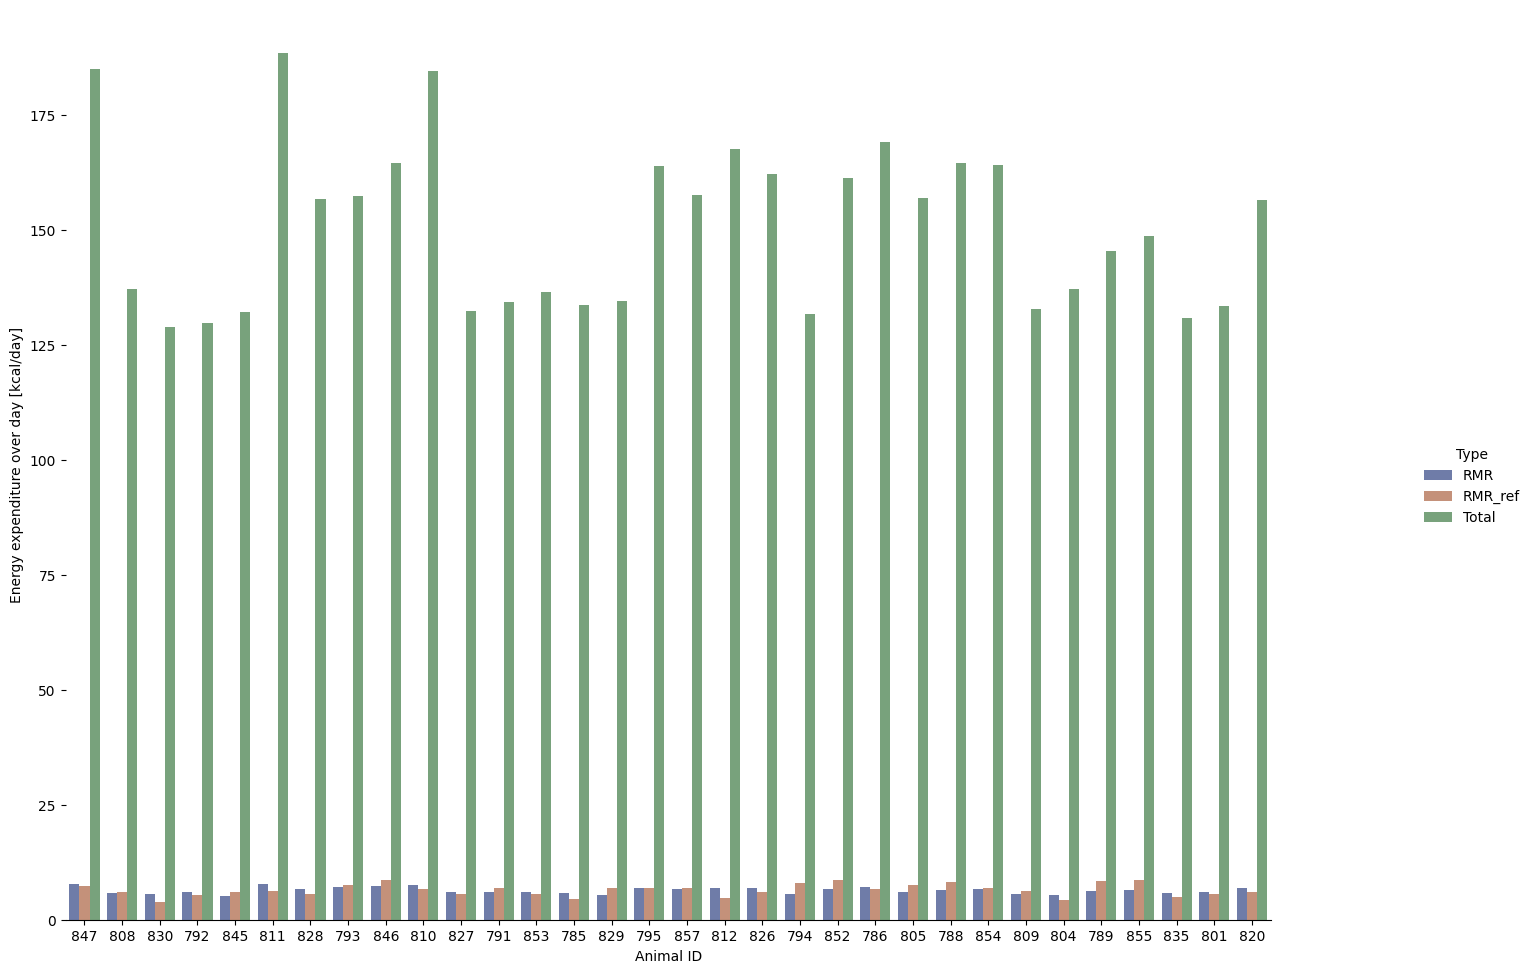
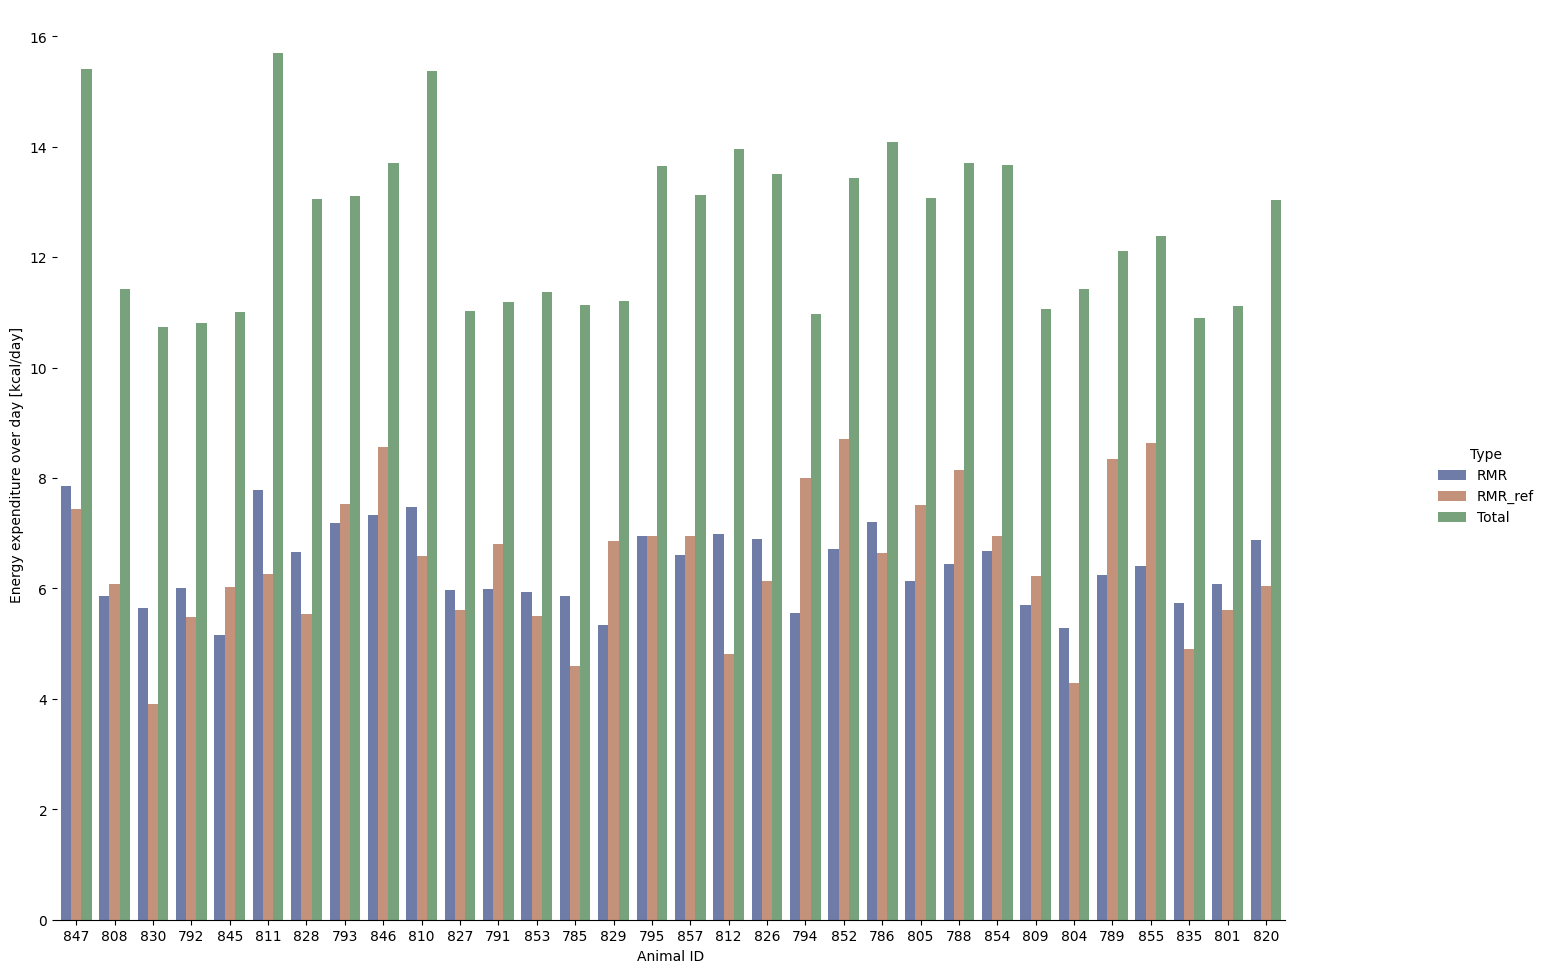
Scaling corrected.

Changed region(s): [[0.0, 0.0617, 0.8283, 0.9866], [0.951, 0.4625, 0.9817, 0.555]]

diff --git a/Comparison calimera/compare.py b/Comparison calimera/compare.py
@@ -178,7 +178,7 @@ if __name__ == "__main__":
     min_RMRs = []
     total_EEs = []
     for index, animal in enumerate(animal_ids):
-        total_EEs.append(dfShiny.loc[dfShiny["Animal"] == int(animal)]["HP"].sum())
+        total_EEs.append(dfShiny.loc[dfShiny["Animal"] == int(animal)]["HP"].sum() / 12) # 5 minutes interval, thus divide by 5*12=60
 
     for index, animal in enumerate(animal_ids):
         min_RMRs.append(24 * min(dfShiny.loc[dfShiny["Animal"] == int(animal)]["HP"].tolist()))  # *6 (10 minute interval) # 5 minute interval = 12
@@ -186,7 +186,7 @@ if __name__ == "__main__":
     min_RMRsRef = []
     total_EEsRef = []
     for index, animal in enumerate(animal_ids):
-        total_EEsRef.append(dfCalimera[animal][1:].sum() / 24)
+        total_EEsRef.append(dfCalimera[animal][1:].sum() / 24) # need to divide by 6 because 6x 10 minute interval...
         min_RMRsRef.append(24 * min(dfCalimera[animal][1:].tolist())) # *6
 
     manager = plt.get_current_fig_manager()
